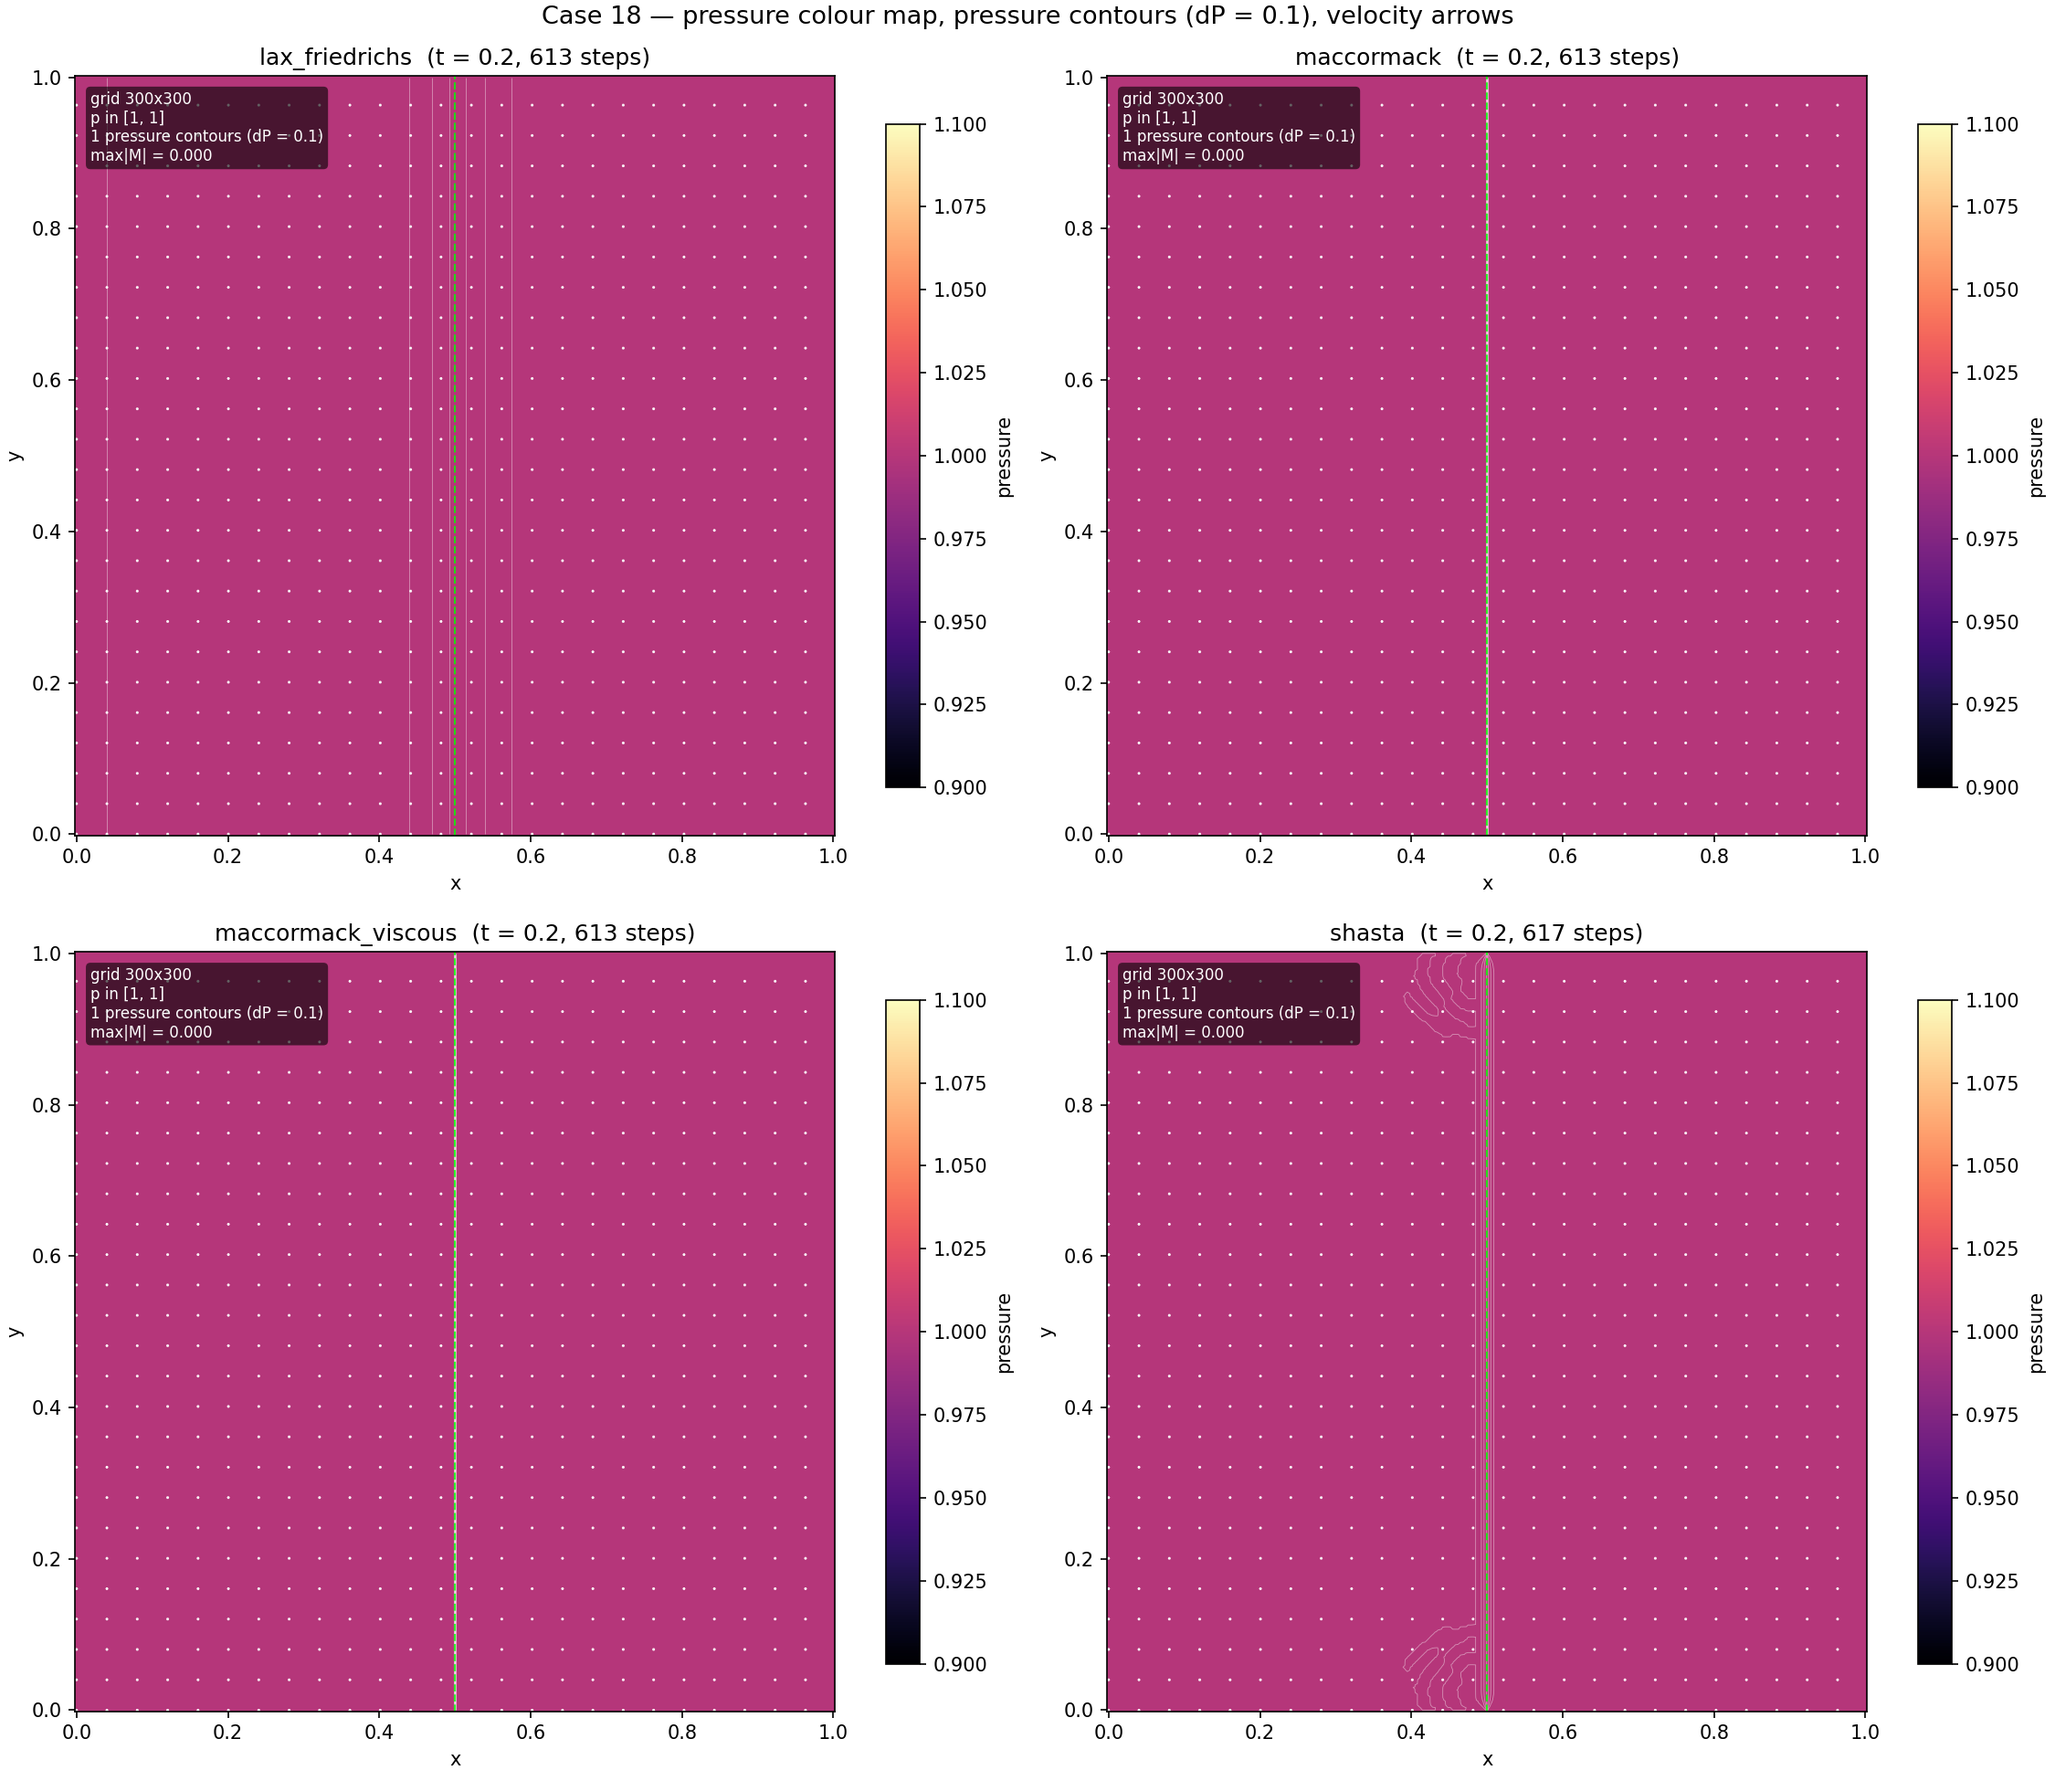
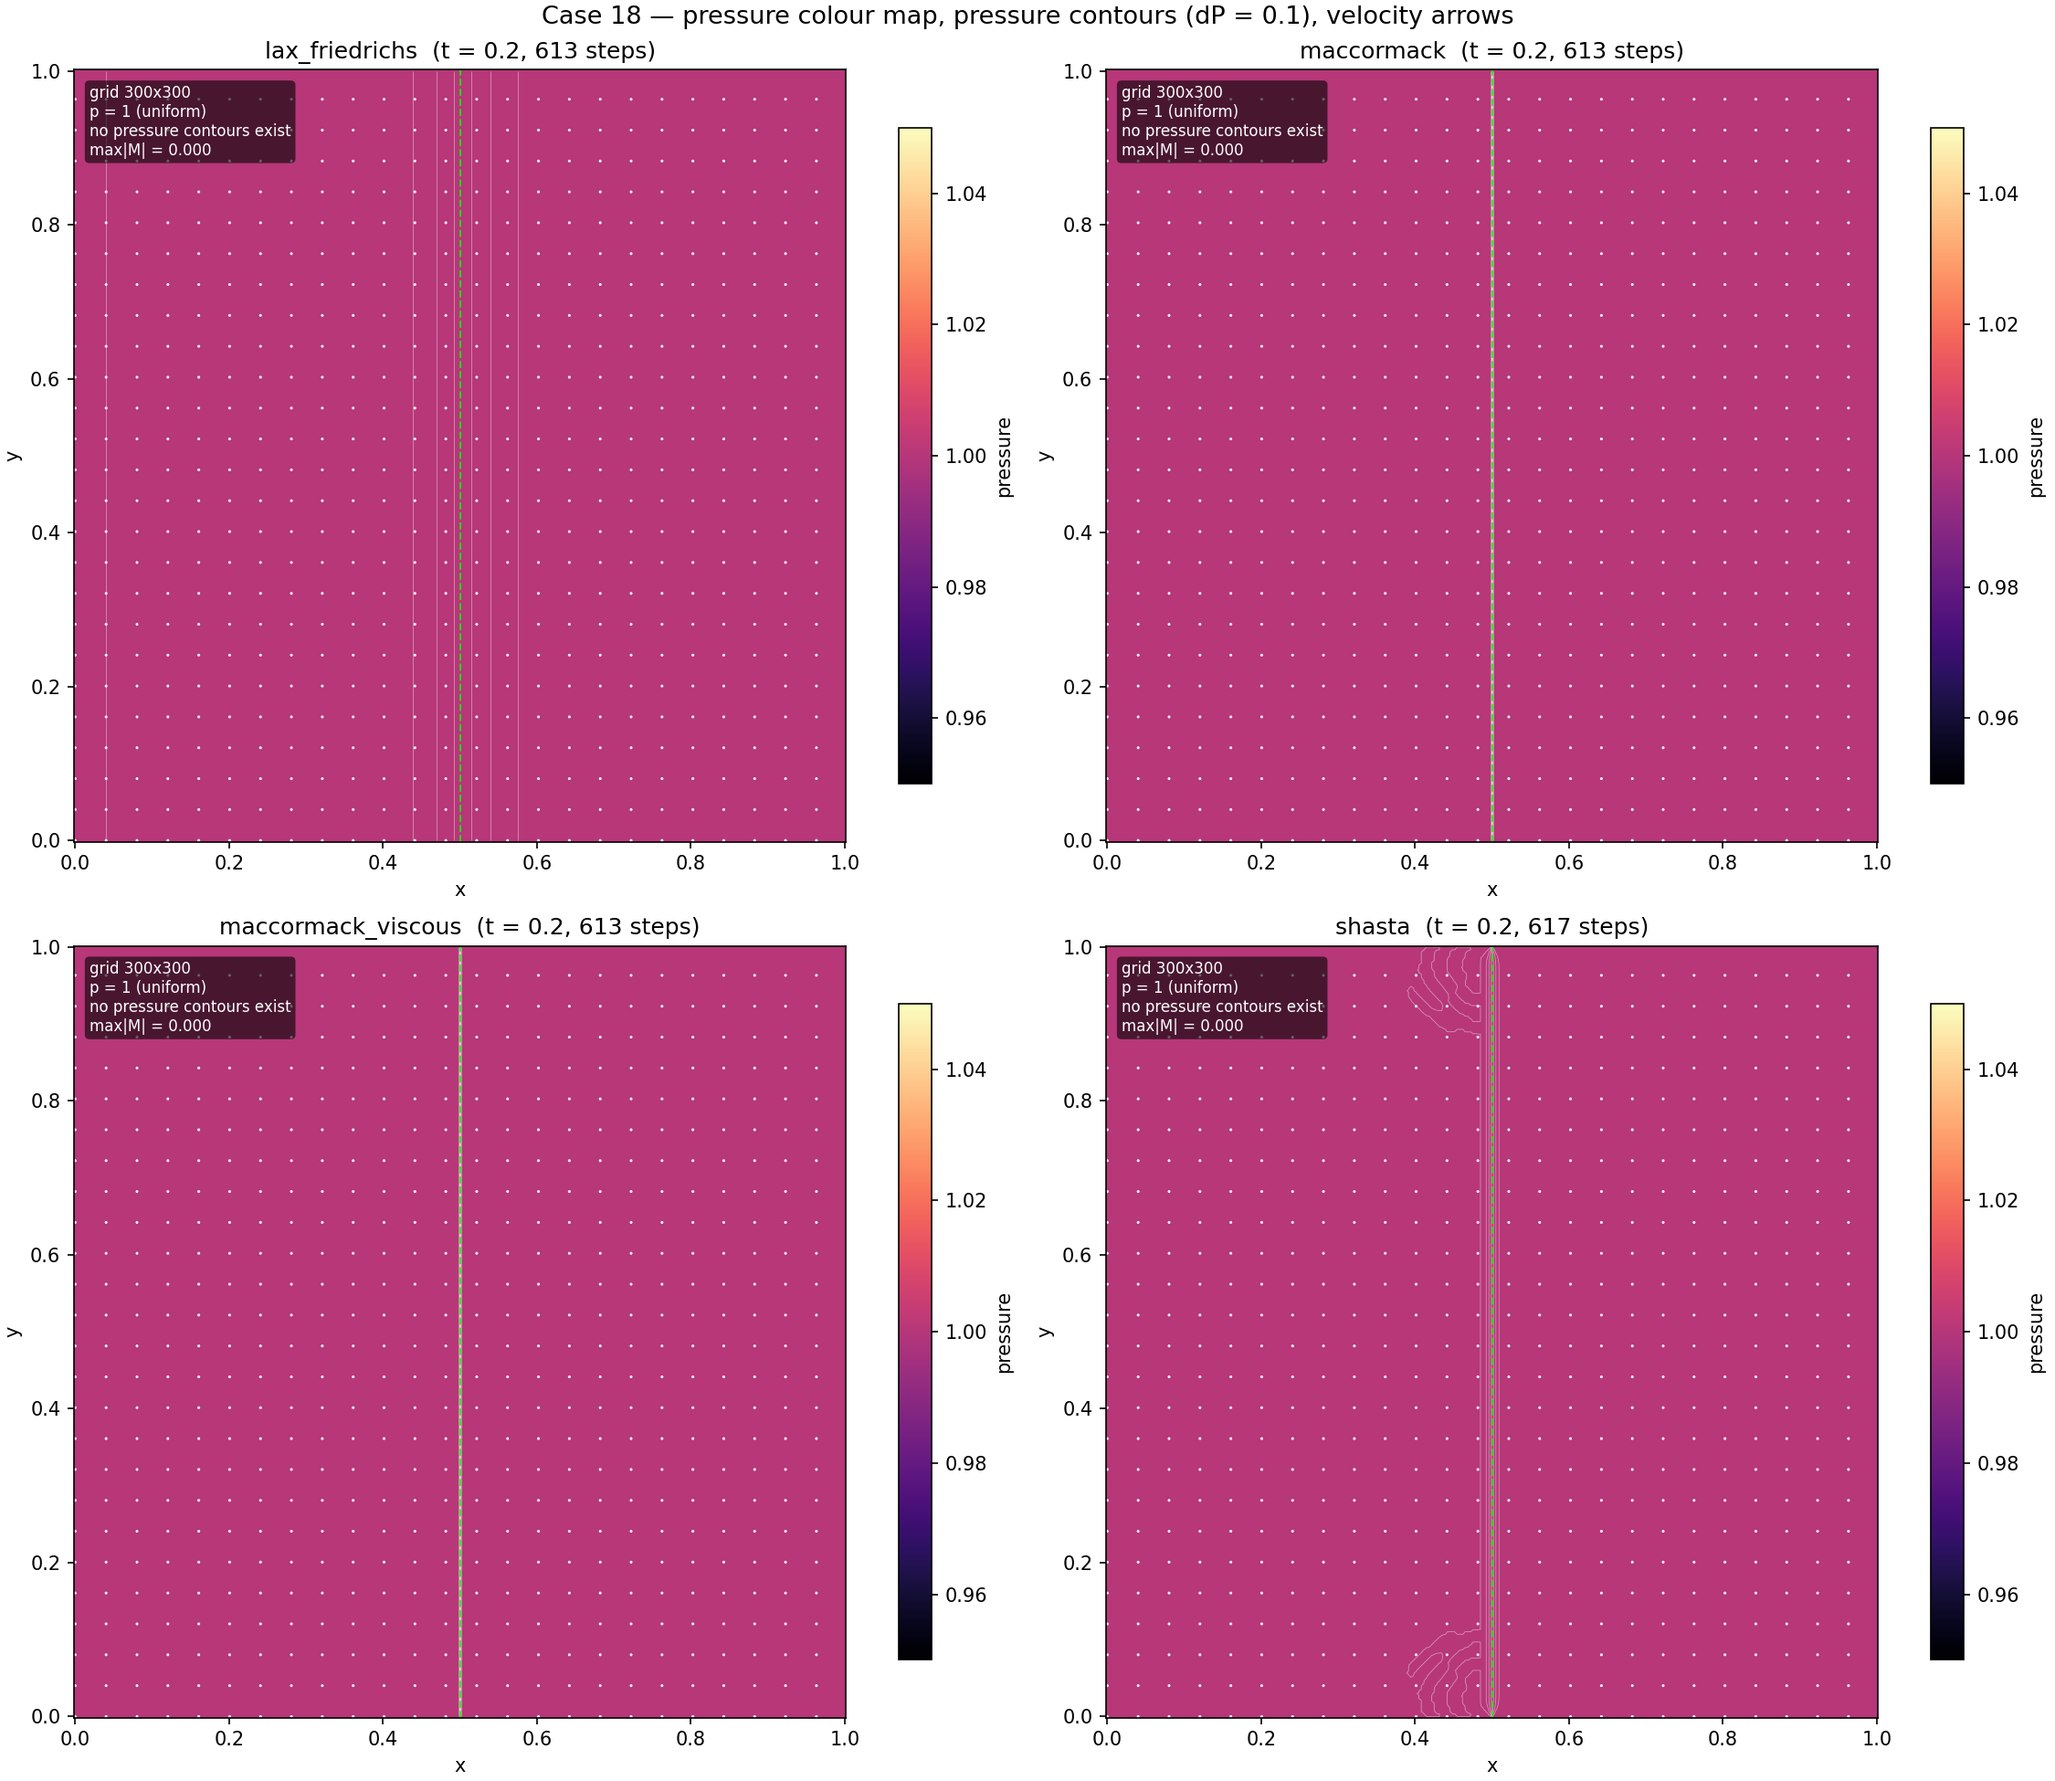
Fix Case 18 colour bar on uniform pressure, add --case18-nx grid-convergence switch
matplotlib pads a degenerate (min==max) colour scale by +-10%, so the Case 18
contact picture advertised 0.9-1.1 for a field that is identically p = 1.  Pin the
colour window to +-0.05 around the constant value and label the panel with
'p = 1 (uniform) / no pressure contours exist'.

Add --case18-nx so the 300x300 vs 1000x1000 grid-convergence study of the
assignment can be re-enabled on demand (it also writes
outputs/test10_grid_convergence.png); the default stays a single 300x300 grid.

Also correct the README stability table: SHASTA on test 9 (implosion) is stable
after the reflecting-wall y-momentum fix, not a failure.

Changed region(s): [[0.5289, 0.0308, 0.9956, 0.9846], [0.0311, 0.0, 0.4667, 0.9846]]

diff --git a/Euler2D.py b/Euler2D.py
@@ -1231,7 +1231,24 @@ def plot_case18_2d(results: list[SimulationResult], output: Path, test_case: int
         speed_of_sound = np.sqrt(GAMMA * p / np.maximum(rho, EPS))
         mach = np.abs(u) / np.maximum(speed_of_sound, EPS)
 
-        mesh = ax.pcolormesh(result.x, result.y, p, cmap="magma", shading="auto")
+        # ---- pressure cloud map -------------------------------------------
+        # A uniform field (min == max) is a special case for matplotlib: the
+        # automatic normalisation pads the colour scale by +-10% and the
+        # colorbar would claim a range like 0.9 - 1.1 for a field that is
+        # exactly constant.  Pin a narrow symmetric window around the
+        # constant value so the picture cannot be misread.
+        p_lo = float(np.min(p))
+        p_hi = float(np.max(p))
+        p_span = p_hi - p_lo
+        uniform_pressure = p_span < 1.0e-12
+        if uniform_pressure:
+            cbar_vmin = p_lo - 0.05
+            cbar_vmax = p_hi + 0.05
+        else:
+            cbar_vmin = p_lo
+            cbar_vmax = p_hi
+        mesh = ax.pcolormesh(result.x, result.y, p, cmap="magma", shading="auto",
+                              vmin=cbar_vmin, vmax=cbar_vmax)
         fig.colorbar(mesh, ax=ax, shrink=0.85, label="pressure")
 
         # Pressure isolines with the required spacing dP = 0.1.  The levels are
@@ -1240,8 +1257,6 @@ def plot_case18_2d(results: list[SimulationResult], output: Path, test_case: int
         # the shock-driven variant (p from ~5 up to ~19 near the wall).
         # The step is kept at exactly 0.1 as the assignment requires, so the
         # lines are drawn thin and semi-transparent to stay readable.
-        p_lo = float(np.min(p))
-        p_hi = float(np.max(p))
         first = np.floor(p_lo / 0.1) * 0.1
         last = np.ceil(p_hi / 0.1) * 0.1
         levels = np.arange(first, last + 1.0e-9, 0.1)
@@ -1278,10 +1293,12 @@ def plot_case18_2d(results: list[SimulationResult], output: Path, test_case: int
         ax.set_xlabel("x")
         ax.set_ylabel("y")
         ax.set_aspect("equal")
+        if uniform_pressure:
+            p_note = f"p = {p_lo:.4g} (uniform)\nno pressure contours exist"
+        else:
+            p_note = f"p in [{p_lo:.4g}, {p_hi:.4g}]\n{levels.size} pressure contours (dP = {dp:g})"
         ax.text(0.02, 0.98,
-                f"grid {grid_label}\np in [{p_lo:.4g}, {p_hi:.4g}]\n"
-                f"{levels.size} pressure contours (dP = {dp:g})\n"
-                f"max|M| = {float(np.max(mach)):.3f}",
+                f"grid {grid_label}\n{p_note}\nmax|M| = {float(np.max(mach)):.3f}",
                 transform=ax.transAxes, fontsize=8, va="top",
                 bbox=dict(boxstyle="round", facecolor="black", alpha=0.6,
                           edgecolor="none"), color="white")
@@ -1442,7 +1459,7 @@ def parse_args() -> argparse.Namespace:
     parser.add_argument(
         "--test", type=int, default=None, choices=range(1, 11),
         help="Test number: 1-6 original coursework, 7-10 Liska & Wendroff 2D Riemann "
-             "problems (7=case 3, 8=case 4, 9=implosion, 10=case 17 aka case 18). "
+             "problems (7=case 3, 8=case 4, 9=implosion, 10=homework Case 18). "
              "Prompts interactively when omitted.",
     )
     parser.add_argument("--method", choices=[*METHODS, "all"], default="all")
@@ -1471,6 +1488,12 @@ def parse_args() -> argparse.Namespace:
         help="Test 10 (homework Case 18) initialisation: 'contact' is the verbatim "
              "assignment statement (two equal-pressure states at rest), 'shock' adds "
              "the M=3 incident shock so the flow reaches the reflecting wall at x=1.",
+    )
+    parser.add_argument(
+        "--case18-nx", type=int, nargs="+", default=None,
+        help="Test 10 only: run several square grids (e.g. --case18-nx 300 1000) and "
+             "additionally write outputs/test10_grid_convergence.png comparing the "
+             "x-profiles.  The default is a single 300x300 grid.",
     )
     parser.add_argument(
         "--scan-viscosity", action="store_true",
@@ -1537,7 +1560,18 @@ def main() -> None:
         for key in ("nx", "ny", "cfl", "t_end", "mach")
     )
 
-    if user_picked_params:
+    # Test 10 (homework Case 18) has its own multi-grid switch.  The default is
+    # a single 300x300 grid, but "--case18-nx 300 1000" re-enables the grid
+    # convergence study of the assignment on request.
+    if test_case == 10 and args.case18_nx:
+        base_cfl = args.cfl if args.cfl is not None else default_cfl(test_case)
+        base_t_end = args.t_end[0] if args.t_end else default_end_time(test_case, 3.0)
+        base_mach = args.mach if args.mach is not None else 3.0
+        run_specs = [
+            (int(n), int(n), base_cfl, base_t_end, base_mach)
+            for n in args.case18_nx
+        ]
+    elif user_picked_params:
         nx = args.nx if args.nx is not None else default_nx(test_case)
         ny = args.ny if args.ny is not None else max(50, nx // 4)
         cfl = args.cfl if args.cfl is not None else default_cfl(test_case)

diff --git a/README.md b/README.md
@@ -285,6 +285,7 @@ for n in 1 2 3 4 5 6; do python Euler2D.py --test $n --no-show; done
 | `--mach` | per-test | Mach number for tests 1, 2 and 4 |
 | `--b` | `1.0` | artificial-viscosity coefficient of equation (41) |
 | `--case18-mode` | `contact` | test 10 only: `contact` = verbatim assignment initialisation, `shock` = adds the M=3 incident shock |
+| `--case18-nx` | `300` | test 10 only: list of square grid sizes; more than one additionally writes `test10_grid_convergence.png` |
 | `--scan-viscosity` | off | scan `b in [0, 0.2, 0.5, 1.0, 1.5, 2.0]` and select the best physical case |
 | `--no-limiter` | off | switch the SHASTA limiter off, reproducing the unlimited case discussed in the paper |
 | `--no-show` | off | save the figure without opening a window, suitable for batch runs |
@@ -316,12 +317,12 @@ Stability on the 2D test suite (`cfl = 0.4`, `b = 1.0`):
 | 6 | stable | stable | stable | **fails** (step 427) |
 | 7 | stable | **fails** | stable | **fails** |
 | 8 | stable | stable | stable | **fails** |
-| 9 | stable | **fails** | stable | **fails** |
+| 9 | stable | **fails** | stable | stable |
 | 10 | stable | see CSV | stable | see CSV |
 
 **19 / 24** combinations are stable at the default `cfl = 0.4`. The instability is the well-known 2D flaw of the predictor–corrector MacCormack: the antisymmetric forward/backward sweep treats the y-direction pressure gradient `G[2] = p` at a strong x-discontinuity as a real transverse velocity, and `rho` goes negative within ~20 steps. SHASTA fails for the same reason — its transport step is MacCormack. The numerical viscosity of `maccormack_viscous` (equation 41) suppresses the y-direction spurious mode at the cost of a tunable `b`, exactly as the paper warns.
 
-A "fails" run is terminated by the `is_physical` check (`rho > 0` and `p > 0`); the diagnostic values in the CSV come from the last good step. The Lax–Friedrichs scheme and `maccormack_viscous` survive all six tests; that is the practical lower bound of this 2D code base.
+A "fails" run is terminated by the `is_physical` check (`rho > 0` and `p > 0`); the diagnostic values in the CSV come from the last good step. The Lax–Friedrichs scheme and `maccormack_viscous` survive every test in the suite; that is the practical lower bound of this 2D code base. Test 9 (implosion) previously reported a SHASTA failure as well — that was caused by a boundary bug (the reflecting top and bottom walls did not flip the y-momentum); after the fix SHASTA completes all 249 steps and the flow matches Liska & Wendroff Fig. 29.
 
 ### Test 10 results — Case 18 (homework)
 
@@ -341,6 +342,12 @@ What the numbers say:
 - The measured spreading matches the diffusive estimate `sqrt(nu*t)`: with `nu ~ cfl*a*dx/2 = 7.9e-4` this gives `sqrt(nu*T) = 0.0126`, and the 44-cell width corresponds to roughly `2*sqrt(nu*T)/dx = 7.6` cells — the same order, so the LF contact width is pure first-order diffusion, not a scheme error.
 - The solution stays **exactly uniform in y** (`max |rho - mean_y(rho)| = 7.7e-15`, `max |v| = 0`), which confirms the 2D boundary handling introduces no spurious transverse structure for this 1D-in-y problem.
 
+The picture can be reproduced with:
+
+```bash
+py ./Euler2D.py --test 10 --method all --no-show
+```
+
 **Mode `shock` (M = 3 incident shock added on the `x = 0.5` line), 300x300, T = 0.2:**
 
 | Scheme | stable | steps | front x | p_wall | p_max | u_max | max M |
@@ -359,6 +366,31 @@ What the numbers say:
 - in `shock` mode the maximum Mach number of the *final* field is 0.98 (Lax–Friedrichs) — every part of the field is subsonic.
 
 The reason is that **M = 3 is a property of the incident shock, not of the flow field behind it.** A shock moving at Mach 3 into stationary gas leaves behind a subsonic post-shock state (here `M = 0.98`), because the shock converts the kinetic energy into pressure. If the notes mean "the flow behind the shock is at M = 3", the initialisation would have to prescribe a *uniform Mach-3 stream* rather than a Mach-3 *shock*; those are different problems.
+
+**Mode `shock` is reproduced with:**
+
+```bash
+py ./Euler2D.py --test 10 --case18-mode shock --method all --no-show --output-dir outputs_shock
+```
+
+**Reading the colour bar of the `contact` picture.** The pressure field is exactly
+constant there, and matplotlib pads a degenerate colour scale by +-10%, so a naive
+render claims a range of 0.9 - 1.1 for a field that is identically 1. The solver
+therefore pins the colour window to +-0.05 around the constant value and prints
+`p = 1 (uniform) / no pressure contours exist` on the panel, so the figure cannot
+be misread.
+
+**Re-enabling the grid-convergence study.** The assignment originally asked for a
+300x300 and a 1000x1000 comparison; the default run uses only the 300x300 grid.
+The comparison can be brought back on demand, which also writes
+`outputs/test10_grid_convergence.png`:
+
+```bash
+py ./Euler2D.py --test 10 --case18-nx 300 1000 --method lax_friedrichs --no-show
+```
+
+Note that the 1000x1000 run needs roughly 25x the wall-clock time of the 300x300
+run.
 
 ---
 
